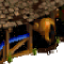
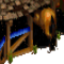
stable fix

diff --git a/server/js/Entity.js b/server/js/Entity.js
@@ -2067,11 +2067,11 @@ Player = function(param){
                   var n = walls[i];
                   world[4][n[1]][n[0]] = 2;
                 }
-                world[4][n[1]][n[0]] = 4;
-                matrixB1[n[1]][n[0]] = 0;
-                gridB1.setWalkableAt(n[0],n[1],true);
-                matrixB2[n[1]][n[0]] = 0;
-                gridB2.setWalkableAt(n[0],n[1],true);
+                world[4][walls[1][1]][walls[1][0]] = 4;
+                matrixB1[walls[1][1]][walls[1][0]] = 0;
+                gridB1.setWalkableAt(walls[1][0],walls[1][1],true);
+                matrixB2[walls[1][1]][walls[1][0]] = 0;
+                gridB2.setWalkableAt(walls[1][0],walls[1][1],true);
                 var wt = getCoords(walls[0][0],walls[0][1]);
                 var cr = getCoords(walls[2][0],walls[2][1]);
                 var bs = getCoords(walls[3][0],walls[3][1]);
@@ -2279,14 +2279,30 @@ Player = function(param){
                   world[3][plot[i][1]][plot[i][0]] = String('stable' + i);
                   world[0][plot[i][1]][plot[i][0]] = 13;
                   matrixO[plot[i][1]][plot[i][0]] = 1;
+                  if(world[3][plot[i][1]][plot[i][0]] === 'stable0' ||
+                  world[3][plot[i][1]][plot[i][0]] === 'stable1' ||
+                  world[3][plot[i][1]][plot[i][0]] === 'stable2' ||
+                  world[3][plot[i][1]][plot[i][0]] === 'stable3'){
+                    matrixO[plot[i][1]][plot[i][0]] = 'stable';
+                  } else {
+                    matrixO[plot[i][1]][plot[i][0]] = 1;
+                  }
                   gridO.setWalkableAt(plot[i][0],plot[i][1],false);
                 }
-                var ii = 8;
+                var ii = 12;
                 for(var i in top){
                   var n = top[i];
                   world[5][n[1]][n[0]] = String('stable' + ii);
                   ii++;
                 }
+                var wt = getCoords(plot[1][0],plot[1][1]);
+                WallTorch({
+                  x:wt[0],
+                  y:wt[1],
+                  z:0,
+                  qty:1,
+                  parent:b.id
+                });
               } else if(b.type === 'dock'){
                 Building.list[getBuilding(self.x,self.y)].built = true;
                 for(var i in plot){
@@ -2495,12 +2511,20 @@ Player = function(param){
                   ii++;
                 }
                 var fg = getCoords(walls[1][0],walls[1][1]);
+                var fp = getCoords(plot[0][0],plot[0][1]);
                 var br = getCoords(plot[3][0],plot[3][1]);
                 var anv = getCoords(plot[5][0],plot[5][1]);
                 Forge({
                   x:fg[0],
                   y:fg[1],
                   z:1,
+                  qty:1,
+                  parent:b.id
+                });
+                Firepit({
+                  x:fp[0],
+                  y:fp[1],
+                  z:0,
                   qty:1,
                   parent:b.id
                 });

diff --git a/client/js/client.js b/client/js/client.js
@@ -3461,6 +3461,38 @@ var renderMap = function(){
               tileSize, // target width
               tileSize // target height
             );
+          } else if(bTile === 'stable8'){
+            ctx.drawImage(
+              Img.stable8, // image
+              xOffset, // target x
+              yOffset, // target y
+              tileSize, // target width
+              tileSize // target height
+            );
+          } else if(bTile === 'stable9'){
+            ctx.drawImage(
+              Img.stable9, // image
+              xOffset, // target x
+              yOffset, // target y
+              tileSize, // target width
+              tileSize // target height
+            );
+          } else if(bTile === 'stable10'){
+            ctx.drawImage(
+              Img.stable10, // image
+              xOffset, // target x
+              yOffset, // target y
+              tileSize, // target width
+              tileSize // target height
+            );
+          } else if(bTile === 'stable11'){
+            ctx.drawImage(
+              Img.stable11, // image
+              xOffset, // target x
+              yOffset, // target y
+              tileSize, // target width
+              tileSize // target height
+            );
           } else if(bTile === 'dock0'){
             ctx.drawImage(
               waterTiles[wtr], // image
@@ -4780,33 +4812,25 @@ var renderTops = function(){
             tileSize, // target width
             tileSize // target height
           );
-        } else if(tile === 'stable8'){
+        } else if(tile === 'stable12'){
           ctx.drawImage(
-            Img.stable8, // image
+            Img.stable12, // image
             xOffset, // target x
             yOffset, // target y
             tileSize, // target width
             tileSize // target height
           );
-        } else if(tile === 'stable9'){
+        } else if(tile === 'stable13'){
           ctx.drawImage(
-            Img.stable9, // image
+            Img.stable13, // image
             xOffset, // target x
             yOffset, // target y
             tileSize, // target width
             tileSize // target height
           );
-        } else if(tile === 'stable10'){
+        } else if(tile === 'stable14'){
           ctx.drawImage(
-            Img.stable10, // image
-            xOffset, // target x
-            yOffset, // target y
-            tileSize, // target width
-            tileSize // target height
-          );
-        } else if(tile === 'stable11'){
-          ctx.drawImage(
-            Img.stable11, // image
+            Img.stable14, // image
             xOffset, // target x
             yOffset, // target y
             tileSize, // target width

diff --git a/server/js/Commands.js b/server/js/Commands.js
@@ -25,7 +25,7 @@ EvalCmd = function(data){
             farm++;
           } else if(b.type === 'tavern'){
             tavern++;
-          } else if(b.type === 'blackmsith'){
+          } else if(b.type === 'blacksmith'){
             blacksmith++;
           } else if(b.type === 'monastery'){
             monastery++;
@@ -647,9 +647,9 @@ EvalCmd = function(data){
           socket.emit('addToChat','<i>You cannot build that there.</i>');
         }
       } else if(data.cmd.slice(data.cmd.indexOf(' ') + 1) === 'stable' && z === 0){
-        var plot = [[c,r],[c+1,r],[c+2,r],[c+3,r],[c,r-1],[c+1,r-1],[c+2,r-1],[c+3,r-1]];
-        var topPlot = [[c,r-2],[c+1,r-2],[c+2,r-2],[c+3,r-2]];
-        var perim = [[c-1,r-2],[c-1,r-1],[c-1,r],[c,r+1],[c+1,r+1],[c+2,r+1],[c+3,r+1],[c+4,r-2],[c+4,r-1],[c+4,r],[c,r-3],[c+1,r-3],[c+2,r-3],[c+3,r-3]];
+        var plot = [[c,r],[c+1,r],[c+2,r],[c+3,r],[c,r-1],[c+1,r-1],[c+2,r-1],[c+3,r-1],[c,r-2],[c+1,r-2],[c+2,r-2],[c+3,r-2]];
+        var topPlot = [[c+1,r-3],[c+2,r-3],[c+3,r-3]];
+        var perim = [[c-1,r-3],[c-1,r-2],[c-1,r-1],[c-1,r],[c,r+1],[c+1,r+1],[c+2,r+1],[c+3,r+1],[c+4,r-3],[c+4,r-2],[c+4,r-1],[c+4,r],[c,r-4],[c+1,r-4],[c+2,r-4],[c+3,r-4]];
         var count = 0;
         for(var i in plot){
           var n = plot[i];
@@ -657,7 +657,7 @@ EvalCmd = function(data){
             count++;
           }
         }
-        if(count === 8){
+        if(count === 12){
           count = 0;
           for(var i in perim){
             var n = perim[i];
@@ -673,7 +673,7 @@ EvalCmd = function(data){
               count++;
             }
           }
-          if(count === 14){
+          if(count === 16){
             for(var i in plot){
               var n = plot[i];
               world[0][n[1]][n[0]] = 11;

diff --git a/client/js/imgloader.js b/client/js/imgloader.js
@@ -312,6 +312,12 @@ Img.stable10 = new Image();
 Img.stable10.src = '/client/img/buildings/stable10.png';
 Img.stable11 = new Image();
 Img.stable11.src = '/client/img/buildings/stable11.png';
+Img.stable12 = new Image();
+Img.stable12.src = '/client/img/buildings/stable12.png';
+Img.stable13 = new Image();
+Img.stable13.src = '/client/img/buildings/stable13.png';
+Img.stable14 = new Image();
+Img.stable14.src = '/client/img/buildings/stable14.png';
 Img.dock0 = new Image();
 Img.dock0.src = '/client/img/buildings/dock0.png';
 Img.dock1 = new Image();
